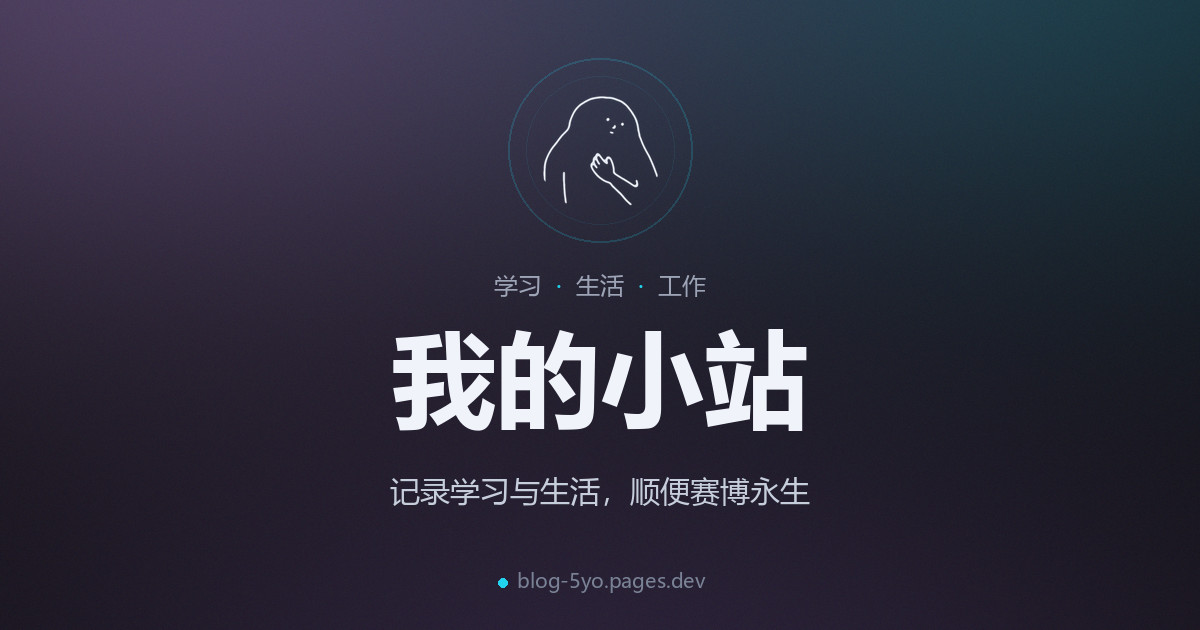
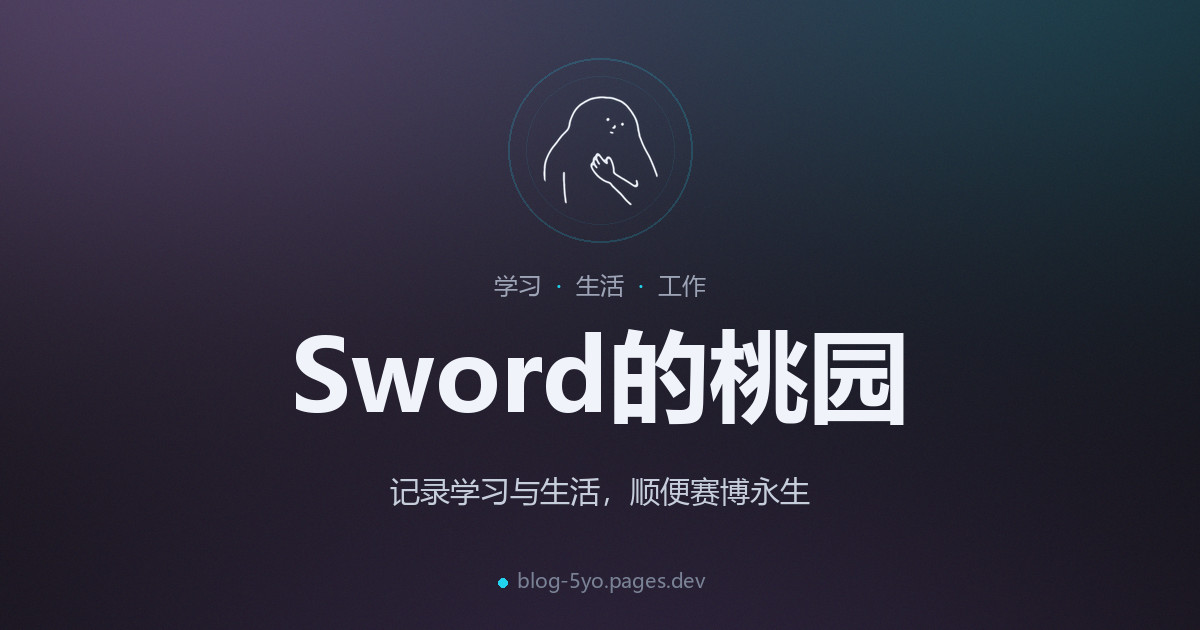
chore: 站名改成「Sword的桃园」
SITE_TITLE 换掉，404 页不再硬编码站名（改为读 SITE_TITLE）；分享卡按新站名重出；旧文《博客是怎么搭起来的》里两处「我的小站」改成中性说法，避免把 9-08 的历史改写成新站名。

Changed region(s): [[0.2467, 0.5127, 0.7708, 0.6937]]

diff --git a/src/consts.ts b/src/consts.ts
@@ -1,5 +1,5 @@
 // Place any global data in this file.
 // You can import this data from anywhere in your site by using the `import` keyword.
 
-export const SITE_TITLE = '我的小站';
+export const SITE_TITLE = 'Sword的桃园';
 export const SITE_DESCRIPTION = 'Sword 的个人博客，记录学习与生活';

diff --git a/src/content/blog/2026-10-27.md b/src/content/blog/2026-10-27.md
@@ -38,14 +38,14 @@ npm run dev
 
 有个小门槛写在模板的 package.json 里：Node 要 22.12 以上，装个新一点的 LTS 就行。
 
-##### 第二步：把「模板」改成「我的小站」
+##### 第二步：把「模板」改成自己的站名
 
 模板是别人的，第一件事就是清库：把自带的示例文章全删了。剩下的就是陆陆续续的装修，翻翻提交记录，这一个月的装修账单都在（这就是小步提交的好处，每一步都留了痕迹）：
 
 |日期|装修记录|
 |:---:|:---|
 |9-07|init，模板先跑通|
-|9-08|站名改成「我的小站」，页脚版权换成自己|
+|9-08|站名换成自己的，页脚版权也换成自己|
 |9-14|删光模板示例文章|
 |9-16|关于页个性化、全站改色、导航中文化、修无障碍文本|
 |9-19|Expressive Code 上线，代码块带高亮（本文这种就是）|
